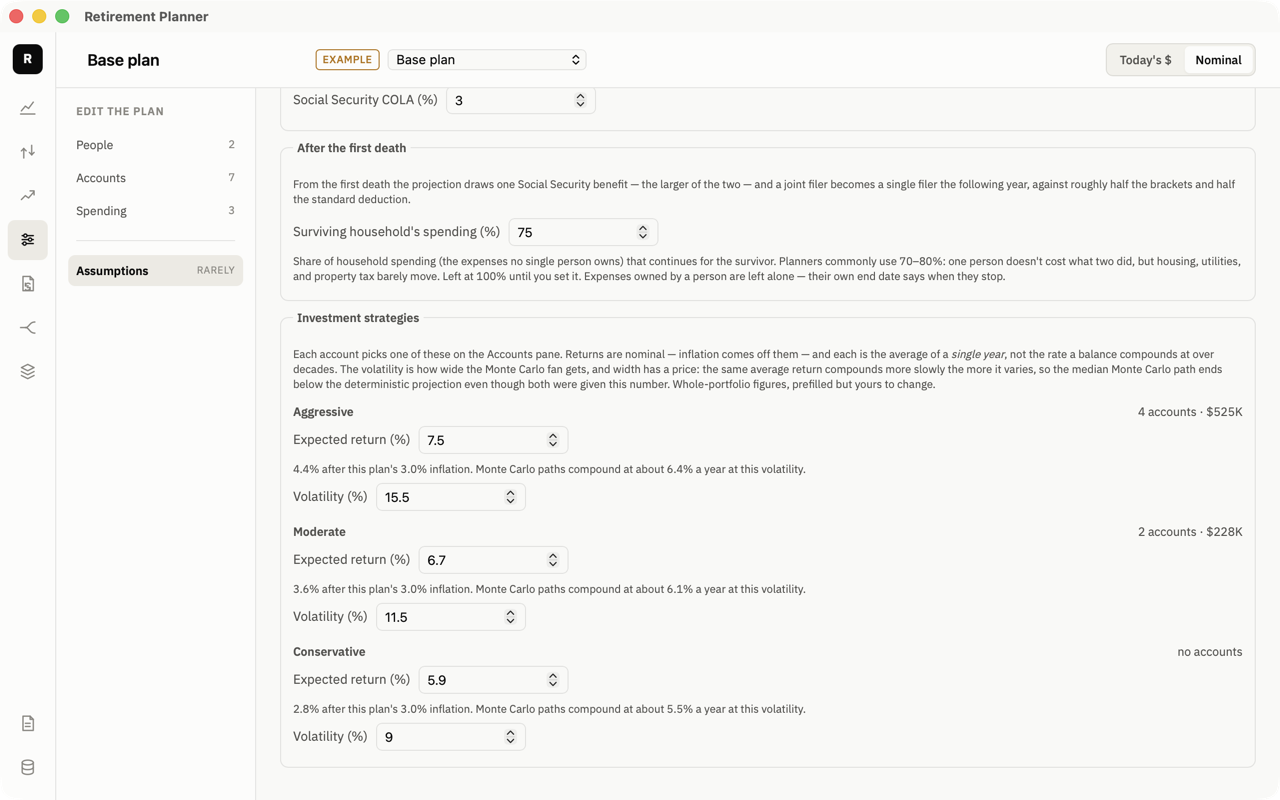
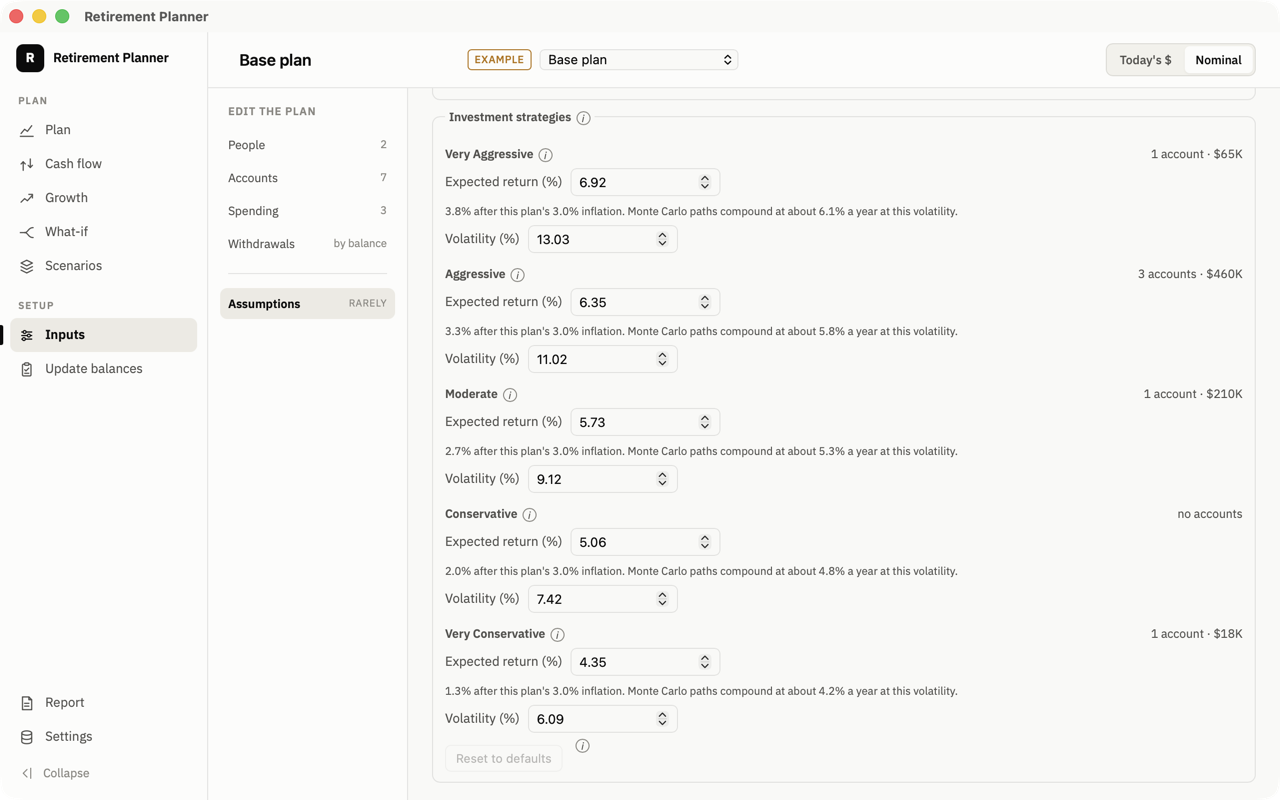
Prepare v1.2
Bump the version to 1.2.0 in package.json, Cargo.toml and
tauri.conf.json, and retake every README screenshot from pnpm
demo:reset: the five strategy tiers (#168) changed the demo household's
allocations and projections, and moving hints into tooltips (#165)
changed most input screens. README alt text updated where it quotes a
figure.

diff --git a/README.md b/README.md
@@ -60,9 +60,9 @@ Nothing is written until you save it as a scenario of its own.
 
 ![The What-if screen with sliders for retirement dates, spending, returns,
 volatility, inflation, life expectancy and Social Security, comparing the
-Base plan to a hypothetical where Alex retires two years earlier and spending is cut to 92%:
-$793.2K less at plan end, and an 83% probability of success against the plan's
-82%.](docs/screenshots/what-if.png)
+Base plan to a hypothetical where Alex retires two years earlier and spending
+is cut to 92%: $240.9K less at plan end, and an 84% probability of success
+against the plan's 82%.](docs/screenshots/what-if.png)
 
 **Cash flow.** Money in above the line and money out below it, year by year,
 then where it actually went in the year you pick, as a Sankey — salaries and
@@ -130,10 +130,10 @@ and one button puts a plan back on those defaults. Each figure says what it
 means: the real return after the plan's inflation, and what a Monte Carlo
 path compounds at once years vary.
 
-![The Assumptions pane's investment strategies: Aggressive, Moderate and
-Conservative, each with an expected return and a volatility, the accounts
+![The Assumptions pane's five investment strategies, Very Aggressive through
+Very Conservative, each with an expected return and a volatility, the accounts
 using it, and a line giving the real return and the rate Monte Carlo paths
-compound at.](docs/screenshots/assumptions.png)
+compound at, above a Reset to defaults button.](docs/screenshots/assumptions.png)
 
 **Accounts.** The balance sheet as a table, with the account under the cursor
 open for editing beneath it. Each balance carries the month it was read, and
@@ -143,7 +143,8 @@ schedules, its 401(k) escalates from 10% to 15% of salary, and one Roth IRA
 has a zero balance because it doesn't open until 2029.
 
 ![The Accounts table listing seven accounts with an allocation column reading
-"Aggressive (7.5%)", "Moderate (6.7%)" and "Fixed 2.0%", a contributing column
+"Very Aggressive (6.9%)", "Aggressive (6.3%)", "Moderate (5.7%)", "Very
+Conservative (4.3%)" and "Fixed 2.0%", a contributing column
 reading "2 schedules", "10% → 15% of salary" and "Max", and an as-of column,
 above the editor for the joint brokerage.](docs/screenshots/accounts.png)
 
